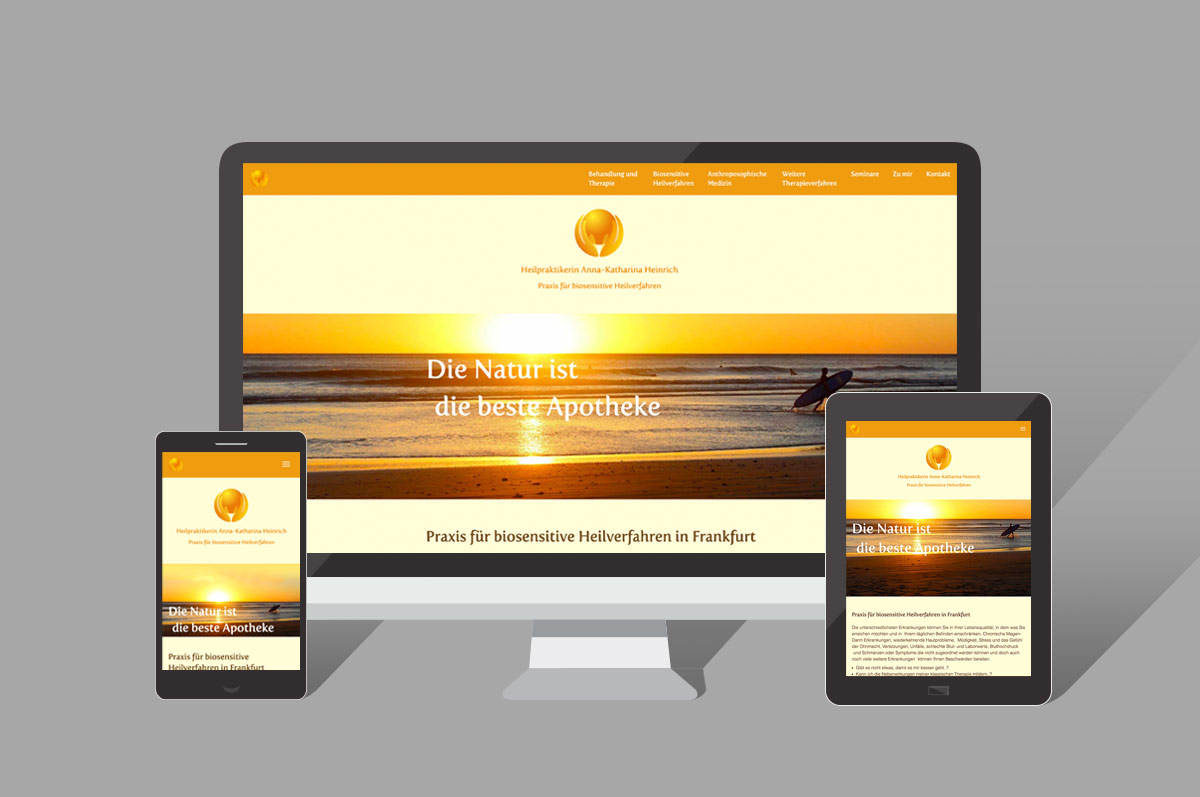
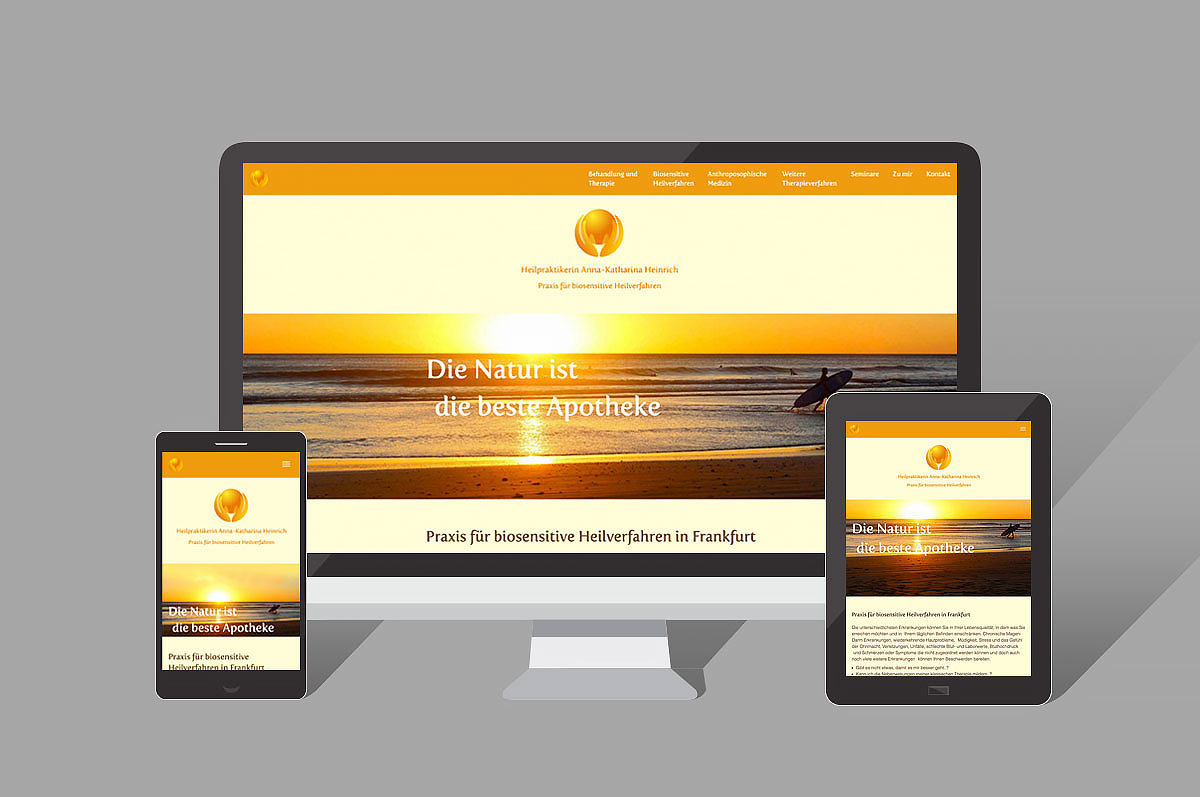
tried to change nav links fontsize when black bg visible

diff --git a/src/navStyler.js b/src/navStyler.js
@@ -3,6 +3,7 @@ export default function navStyler(){
     const navbar = document.querySelector('.navbar');
     const mdsMediaQuery = window.matchMedia('(min-width: 992px)');
     const mdsMenuLink = document.querySelectorAll('.mds-menu-link');
+    const navbarCollapse = document.querySelector('.navbar-collapse');
 
     mdsMenuLink.forEach(item => {
         item.addEventListener('click', event => {
@@ -10,7 +11,7 @@ export default function navStyler(){
                 mdsNavbar.classList.remove('mds-navbar-styler')
             }
             else{
-                mdsNavbar.classList.toggle('mds-navbar-styler')
+                mdsNavbar.classList.toggle('mds-navbar-styler');
             }
         })
     })

diff --git a/src/scrollHandler.js b/src/scrollHandler.js
@@ -20,9 +20,6 @@ export default function scrollHandler(){
     // grab all scroll interactive slide in
     const imagesForFadeIn = document.querySelectorAll('.port-slide--in');
 
-    // grab portfolio top px
-    const portfolioSectionTop = document.getElementById('portfolio-title-page').getBoundingClientRect().top;
-
     function checkSlide(){
         imagesForFadeIn.forEach(fadeInImage => {
             // half way through the image

diff --git a/src/main.scss b/src/main.scss
@@ -416,9 +416,10 @@ h2.hero-title__second {
   .mds-title-text,
   .mds-title {
     font-size: 3rem;
+    line-height: 1;
   }
   .mds-intro__text {
-    font-size: 1rem;
+    font-size: 0.9rem;
   }
   .port-subtitle {
     font-size: 2rem;
@@ -426,6 +427,9 @@ h2.hero-title__second {
   }
   .mds-text__box:first-child {
     margin-top: 0.5rem;
+  }
+  .mds-title-text {
+    padding-top: 10vh;
   }
 }
 

diff --git a/dist/index.html b/dist/index.html
@@ -334,7 +334,7 @@
                   </p>
                 </div>
               </div>
-              <div class="col-sm-8 pl-0">
+              <div class="col-sm-8">
                 <div id="mds-slider-9" class="mds-slide-container">
                   <div class="mds-prev"><i class="fas fa-angle-left"></i></div>
                   <div class="mds-next"><i class="fas fa-angle-right"></i></div>

diff --git a/src/_mds-navbar.scss b/src/_mds-navbar.scss
@@ -9,7 +9,7 @@
 
 .nav-link,
 .mds-menu-link {
-  @include transition
+  @include transition;
 }
 
 .navbar-collapse {
